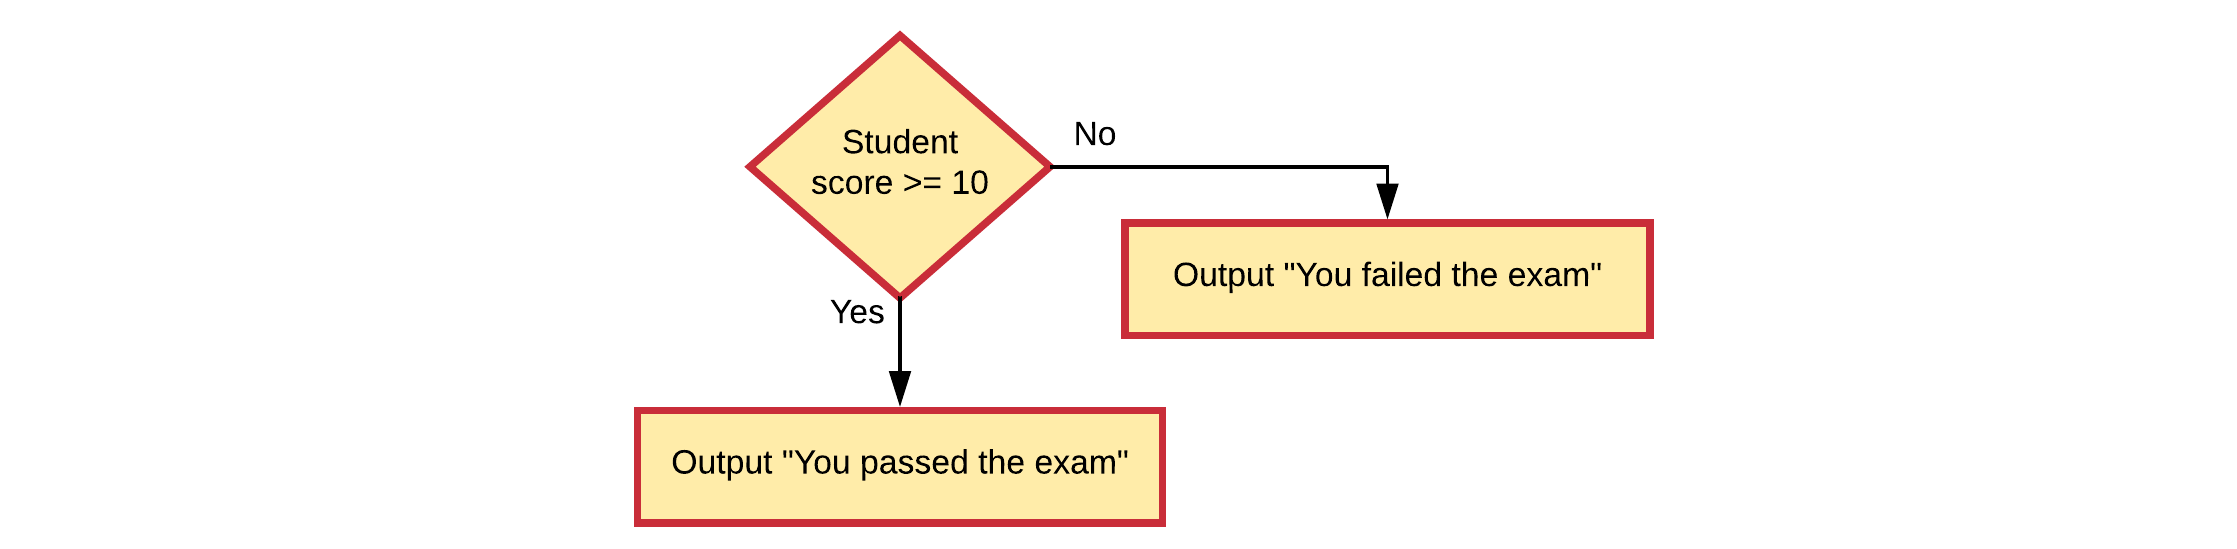
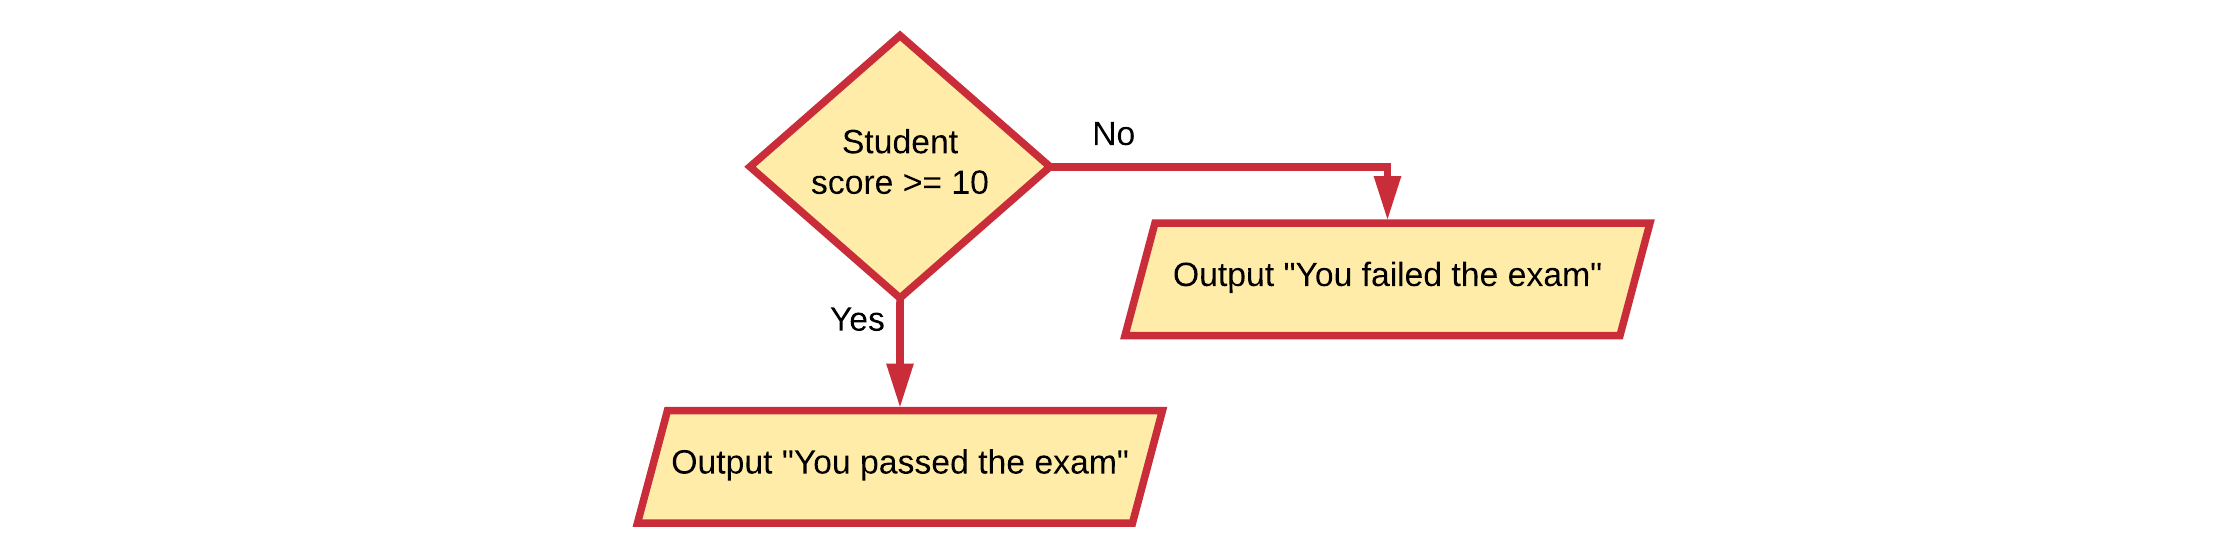
Update flowcharts to make use of data input  output symbol

diff --git a/02_basic_building_blocks/flowcharts.md b/02_basic_building_blocks/flowcharts.md
@@ -16,15 +16,19 @@ A **terminal** indicates the start or ending of an application, sub-process, ...
 
 ![Terminal](img/flowchart_terminal.png)
 
-A basic rectangle is used to represent a **process step**. This is an action or operation that changes a value, outputs something to the user, ...
+A basic rectangle is used to represent a **process step**. This is an action or operation that changes a value, takes an internal action, ...
 
-![Process step](img/flowchart_process.png)
+![Process step](img/flowchart_process_step.png)
 
 The flow of operation is indicated using a **flowline**. This is a line connecting one symbol with another. While arrowheads are only required if the flow is not the standard top-to-bottom or left-to right, they are almost always added anyways.
 
 ![Flowlines](img/flowchart_arrows.png)
 
-When multiple path of execution can be taken based on a condition, a diamond is used to represent a **decision**. The operation is commonly a *yes/no* question or *true/false* test.
+A parallellogram is known as a data input/output node. Input can come from the terminal or another source. Output can for example be printing a text to the user via the terminal, or writing something to a file. Some developers don't bother to to use the parallelogram shape and just use a standard rectangle.
+
+![Data Input/Output](img/flowchart_input_output.png)
+
+When multiple paths of execution can be taken based on a condition, a diamond is used to represent a **decision**. The operation is commonly a *yes/no* question or *true/false* test.
 
 ![Decision](img/flowchart_decision.png)
 
@@ -35,6 +39,8 @@ A **predefined process** shows a named process which is defined somewhere else. 
 A **note** is used to clarify something in your flowchart. It can give a general description of the process or elaborate a certain action or part of your process. Use where needed. 
 
 ![Note](img/flowchart_note.png)
+
+There are more flowchart symbols, but these are the ones you will need most.
 
 ### Not a strict standard
 

diff --git a/02_basic_building_blocks/readme.md b/02_basic_building_blocks/readme.md
@@ -10,6 +10,6 @@ Almost every programming language out there has a number of basics building bloc
 * **Operators** allow the manipulation of the data stored in memory.
 * **Decision making** allows multiple paths of execution based on conditions.
 * **Loop constructs** to repeat certain operations a number of times.
-* **Functions or procedures** allow functionality to be grouped so it can be easily reused.
+* **Functions** allow functionality to be grouped so it can be easily reused.
 
 More high-level programming languages introduce more advanced tools that allow a developer to create applications for more complex problems without making the application overly complex. Some common concepts are classes, inheritance, interfaces, multithreading, collections, lambda-expressions, generics, ... Some of these will be introduced in the more advanced chapters of this course.
